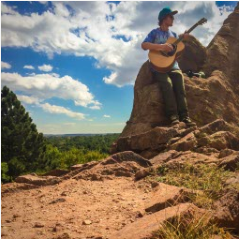
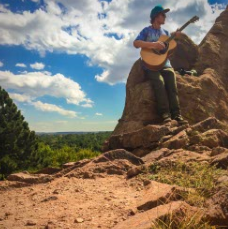
image no longer flipped!

diff --git a/index.html b/index.html
@@ -5,15 +5,19 @@
         <style>
             body {
                 font-size: 4.5;
+                background-color: black;
             }
         </style>
     </head>
 
     <script type="text/javascript">
-
+        //
+        // !!! NEED TO SERVE ON LOCALHOST TO TEST !!!
+        //
         function display() {
             let imageCanvas = document.getElementById("tempCanvas");
             let imageContext = imageCanvas.getContext("2d");
+            imageContext.clearRect(0, 0, imageCanvas.width, imageCanvas.height);
 
             let img = new Image();
             img.src = "img/hans.png"; //document.getElementById("filePath")
@@ -21,8 +25,6 @@
             img.onload = function() {
                 imageContext.drawImage(img, 0, 0, 100, 100);
                 imageData = imageContext.getImageData(0, 0, 100, 100);
-                //img.display.style = "none";
-
 
                 const asciiSection = document.getElementById("asciiSection");
                 let picture = [];
@@ -37,52 +39,30 @@
                         let alpha = pixel[3+4*(x+100*y)];
                         let rgba = 'rgba('+red+','+green+','+blue+','+alpha+')';
 
-
                         let num = Math.floor(Math.random()*3);
                         let color = rgba;
                         let string;
                         switch (num) {
                             case 0:
-                                //color = "#FF0000";
-                                string = "█"; //●█⬤ ❶❷❸❹❺❻❼❽❾❿
+                                string = "▇▶"; // alternative chars: ● ▇ █ ⬤ ❶ ❷ ❸ ❹ ❺ ❻ ❼ ❽ ❾ ❿
                                 break;
                             case 1:
-                                //color = "#00FF00";
-                                string = "█";
+                                string = "▇▶";
                                 break;
                             case 2:
-                                //color = "#0000FF";
-                                string = "█";
+                                string = "▇▶";
                                 break;
                         }
                         let char = "<span style='color:" + color + "'>" + string + "</span>";
-                        line.unshift(char);
+                        line.push(char);
                     }
-                     picture.push(line.join("&nbsp")); //
+                     picture.push(line.join("")); //
                     picture.push("<br />");
                 }
-
                 asciiSection.innerHTML = picture.join("");
             }
         }
 
-
-        /*
-        function setImage() {
-
-        }
-        var imgData = img.getImageData(x, y, width, height).data;
-
-        function draw() {
-            //var image = document.getElementById("sourceImage");
-            for (let yPixel=0; yPixel<image.Width; yPixel++) {
-                for (let xPixel=0; xPixel<image.Height; xPixel++) {
-
-                }
-            }
-
-        }
-        */
     </script>
 
     <body>
@@ -90,8 +70,6 @@
         <div id="asciiSection"></div>
 
         <script>
-            //getImageData();
-            //draw();
             display();
         </script>
     </body>
